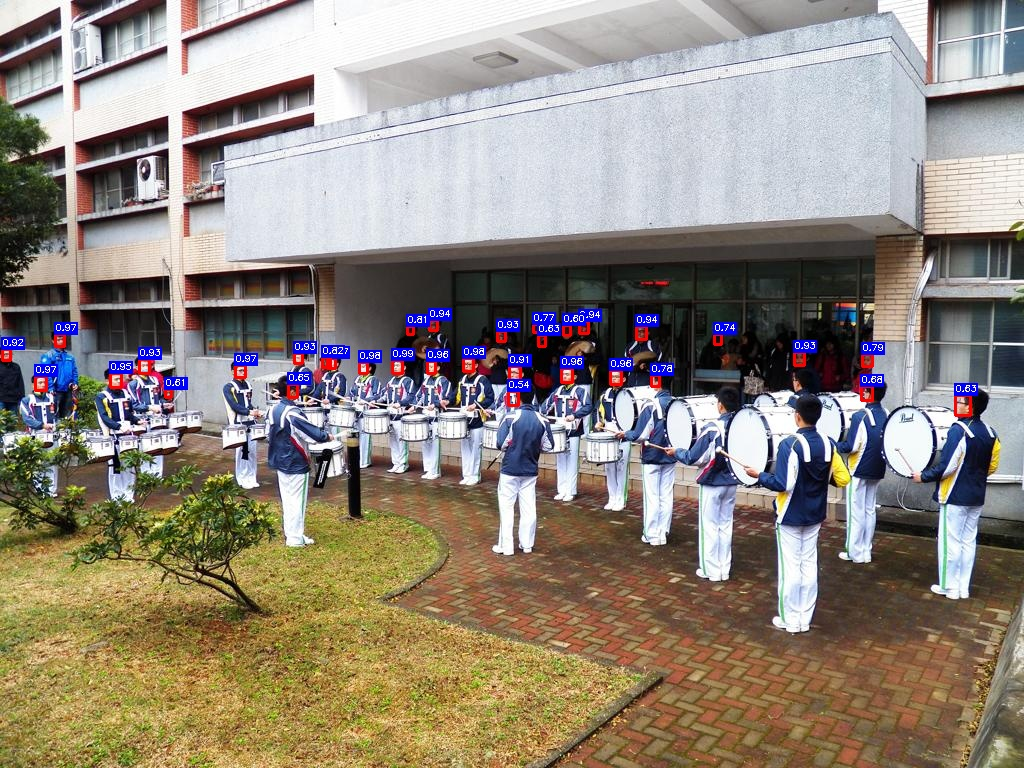
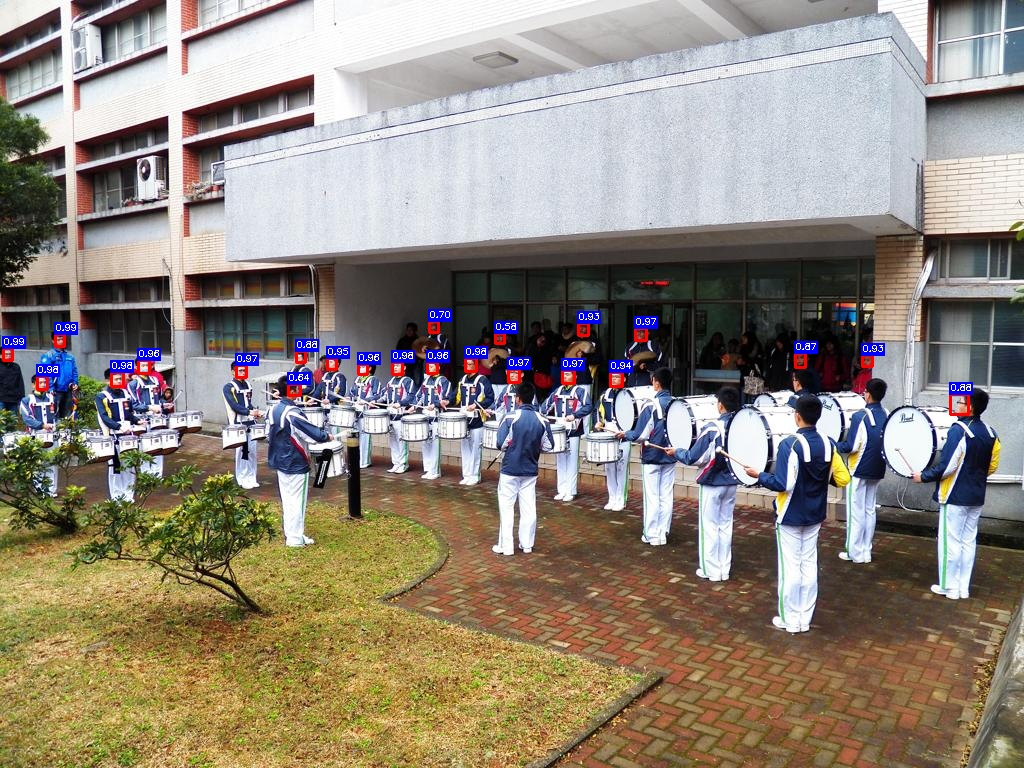
7.12精调tricks与out记录

diff --git a/models/dual_net_ssd.py b/models/dual_net_ssd.py
@@ -100,15 +100,6 @@ class SSD(nn.Module):
         self.smooth1 = nn.Conv2d(fpn_in[0], fpn_in[0], kernel_size=1, stride=1, padding=0)
 
         # =============
-        # 第二次特征点乘融合层
-        bup_in = output_channels
-        # self.bup1 = nn.Conv2d(bup_in[0], bup_in[1], kernel_size=3, stride=2, padding=1)
-        # self.bup2 = nn.Conv2d(bup_in[1], bup_in[2], kernel_size=3, stride=2, padding=1)
-        self.bup3 = nn.Conv2d(bup_in[2], bup_in[3], kernel_size=3, stride=2, padding=1)
-        self.bup4 = nn.Conv2d(bup_in[3], bup_in[4], kernel_size=3, stride=2, padding=1)
-        self.bup5 = nn.Conv2d(bup_in[4], bup_in[5], kernel_size=3, stride=2, padding=1)
-
-        # =============
         # 特征增强FEM层
         cpm_in = output_channels
         # self.cpm3_3 = nn.Conv2d(cpm_in[0], 512, kernel_size=1)
@@ -129,7 +120,7 @@ class SSD(nn.Module):
             self.softmax = nn.Softmax(dim=-1)
             self.detect = my_detection.Detection(cfg)
 
-    def init_priors(self, input_size, features_maps, cfg):
+    def init_priorbox(self, input_size, features_maps, cfg):
         priorbox = my_priorbox.PriorBox(input_size, features_maps, cfg)
         prior = Variable(priorbox.forward(), volatile=True)
         return prior
@@ -180,12 +171,6 @@ class SSD(nn.Module):
         conv4_3_x = lfpn2
         conv3_3_x = lfpn1
 
-        # conv4_3_x = F.relu(self.bup1(conv3_3_x))  * conv4_3_x
-        # conv5_3_x = F.relu(self.bup2(conv4_3_x))  * conv5_3_x
-        fc7_x = F.relu(self.bup3(conv5_3_x)) * fc7_x
-        conv6_2_x = F.relu(self.bup4(fc7_x)) * conv6_2_x
-        conv7_2_x = F.relu(self.bup5(conv6_2_x)) * conv7_2_x
-
         sources = [conv3_3_x, conv4_3_x, conv5_3_x, fc7_x, conv6_2_x, conv7_2_x]
 
         sources[0] = self.cpm3_3(sources[0])
@@ -200,10 +185,21 @@ class SSD(nn.Module):
         for (x, l, c) in zip(sources, self.loc, self.conf):
             featuremap_size.append([x.shape[2], x.shape[3]])
             loc.append(l(x).permute(0, 2, 3, 1).contiguous())
-            conf.append(c(x).permute(0, 2, 3, 1).contiguous())
+            len_conf = len(conf)
+            if self.cfg.MBOX[0] ==1 :
+                cls = self.mio_module(c(x),len_conf)
+            else:
+                mmbox = torch.chunk(c(x) , self.cfg.MBOX[0] , 1)
+                cls_0 = self.mio_module(mmbox[0], len_conf)
+                cls_1 = self.mio_module(mmbox[1], len_conf)
+                cls_2 = self.mio_module(mmbox[2], len_conf)
+                cls_3 = self.mio_module(mmbox[3], len_conf)
+                cls = torch.cat([cls_0, cls_1, cls_2, cls_3] , dim=1)
+            conf.append(cls.permute(0, 2, 3, 1).contiguous())
 
-        face_loc = torch.cat([o.view(o.size(0), -1) for o in loc], 1)
-        face_conf = torch.cat([o.view(o.size(0), -1) for o in conf], 1)
+        mbox_num = self.cfg.MBOX[0]
+        face_loc = torch.cat([o[:, :, :, :4 * mbox_num].contiguous().view(o.size(0), -1) for o in loc], 1)
+        face_conf = torch.cat([o[:, :, :, :2 * mbox_num].contiguous().view(o.size(0), -1) for o in conf], 1)
 
         if self.phase == "test":
             features_maps = featuremap_size  # 根据具体输入情况来修改cfg
@@ -237,6 +233,16 @@ class SSD(nn.Module):
         else:
             print('Sorry only .pth and .pkl files supported.')
 
+    def mio_module(self, each_mmbox, len_conf):
+        chunk = torch.chunk(each_mmbox, each_mmbox.shape[1], 1)
+        bmax = torch.max(torch.max(chunk[0], chunk[1]), chunk[2])
+        cls = (torch.cat([bmax, chunk[3]], dim=1) if len_conf == 0 else torch.cat([chunk[3], bmax], dim=1))
+        if len(chunk) == 6:
+            cls = torch.cat([cls, chunk[4], chunk[5]], dim=1)
+        elif len(chunk) == 8:
+            cls = torch.cat([cls, chunk[4], chunk[5], chunk[6], chunk[7]], dim=1)
+        return cls
+
     def _upsample_product(self, x, y):
         '''Upsample and add two feature maps.
         Args:
@@ -257,14 +263,38 @@ class SSD(nn.Module):
         return F.upsample(x, size=(H, W), mode='bilinear') * y
 
 
+class DeepHeadModule(nn.Module):
+    def __init__(self, input_channels, output_channels):
+        super(DeepHeadModule , self).__init__()
+        self._input_channels = input_channels
+        self._output_channels = output_channels
+        self._mid_channels = min(self._input_channels, 256)
+        #print(self._mid_channels)
+        self.conv1 = nn.Conv2d( self._input_channels, self._mid_channels, kernel_size=3, dilation=1, stride=1, padding=1)
+        self.conv2 = nn.Conv2d( self._mid_channels, self._mid_channels, kernel_size=3, dilation=1, stride=1, padding=1)
+        self.conv3 = nn.Conv2d( self._mid_channels, self._mid_channels, kernel_size=3, dilation=1, stride=1, padding=1)
+        self.conv4 = nn.Conv2d( self._mid_channels, self._output_channels, kernel_size=1, dilation=1, stride=1, padding=0)
+    def forward(self, x):
+        return self.conv4(F.relu(self.conv3(F.relu(self.conv2(F.relu(self.conv1(x), inplace=True)), inplace=True)), inplace=True))
+
+
 def multibox(output_channels, mbox_cfg, num_classes):
     loc_layers = []
     conf_layers = []
     for k, v in enumerate(output_channels):
         input_channels = 512
-        loc_layers += [nn.Conv2d(input_channels, mbox_cfg[k] * 4, kernel_size=3, padding=1)]
-        conf_layers += [nn.Conv2d(input_channels, mbox_cfg[k] * num_classes, kernel_size=3, padding=1)]
-    return loc_layers, conf_layers
+        if k == 0:
+            loc_output = 4
+            conf_output = 2
+        elif k == 1:
+            loc_output = 8
+            conf_output = 4
+        else:
+            loc_output = 12
+            conf_output = 6
+        loc_layers += [DeepHeadModule(input_channels, mbox_cfg[k] * loc_output)]
+        conf_layers += [DeepHeadModule(input_channels, mbox_cfg[k] * (2 + conf_output))]
+    return (loc_layers, conf_layers)
 
 
 def build_net_ssd(phase, cfg, num_classes=2):

diff --git a/train.py b/train.py
@@ -15,6 +15,7 @@ import torch.optim as optim
 from torch.autograd import Variable
 from torch.utils.data import DataLoader
 from torch.optim.lr_scheduler import StepLR  # 学习率衰减
+from tensorboardX import SummaryWriter
 import numpy as np
 import warnings
 warnings.filterwarnings("ignore")
@@ -75,7 +76,11 @@ def train(args):
     if args.mode == 'resume':
         print('[INFO] Load model from {}...'.format(args.resume))
         # torch_utils.load_net(args.resume, net)
-        net.load_weights(args.resume)
+        try:
+            net.load_weights(args.resume)
+        except Exception as e:
+            net.load_state_dict(torch.load(args.resume))
+
     else:
         print('[INFO] Initializing weights...')
         # net.apply(net.weights_init)
@@ -85,6 +90,9 @@ def train(args):
     scheduler = StepLR(optimizer, step_size=10000, gamma=0.1)
     # criterion = GeneralLoss(cfg)
     criterion = FocalLoss(cfg)
+
+    # 存放训练log的writer对象
+    writer = SummaryWriter('./log')
 
     # 训练
     print("======开始训练======")
@@ -116,7 +124,8 @@ def train(args):
             loss = criterion(out, targets)
             loss.backward()
 
-            torch.nn.utils.clip_grad_norm(net.parameters(), True)  # 梯度裁剪
+            # 梯度裁剪
+            torch.nn.utils.clip_grad_norm(net.parameters(), True)
             optimizer.step()
 
             # 新增metrics输出
@@ -127,20 +136,24 @@ def train(args):
             losses += loss.data.item()  # 注：不能直接losses += loss，会随着epoches循环爆gpu的显存
 
             # 每训练10个batches后打印日志
-            ## loss开始变得不正常时，保存模型
             if iteration % 10 == 0:
                 # 计算每个batch的平均loss
                 mean_loss = losses / (iteration + 1)
+
+                # 添加loss日志（用于tensorboard可视化）
+                writer.add_scalar('Loss', mean_loss, global_step=iteration)
+
                 print('Timer: %.4f' % (time.time() - start_time))
                 print('Epoch:' + repr(epoch) + ' || iter:' +
                       repr(iteration) + ' || Loss:%.4f' % (mean_loss))
                 # print('->> cls loss:s1_{:.4f},s2_{:.4f} || loc loss:s1_{:.4f},s2_{:.4f}'.format(
                       # loss_cls_s1.data[0], loss_cls_s2.data[0], loss_loc_s1.data[0], loss_loc_s2.data[0]))
                 print('->>lr:{}'.format(optimizer.param_groups[0]['lr']))
+                # 保存出现nan之前的最优loss权重，并保存(只保存1个)
                 if mean_loss < min_loss:
                     min_loss = mean_loss
                     print("min_loss:{}".format(min_loss))
-                    torch.save(net.state_dict(), save_path.format(11111))  # 出现nan之前的最优loss的model标签，并保存(只保存1个)
+                    torch.save(net.state_dict(), save_path.format(11111))
                 
                 # 权重、偏置、特征信息
                 # wb_parm, names = weights_bias_parm(net)
@@ -243,5 +256,5 @@ if __name__ == '__main__':
 
     argments = parser.parse_args(sys.argv[1:])  # 新增的resume参数，指定net需要加载的权重参数
     # 用来每个epoch走完之后，val_loss的比较以保存最佳model
-    min_loss = 15
+    min_loss = 10
     train(argments)

diff --git a/config.py b/config.py
@@ -15,8 +15,7 @@ class Config(object):
     VAL_ROOT = '/home/dataset/face_recognize/face_detect/WIDER_val/images'
     FACE_GEN_TRAIN_FILE = './data/train.txt'
     FACE_GEN_VAL_FILE = './data/val.txt'
-    # 类别数与loss合并参数
-    ALPHA = 1.0
+    # 类别数
     NUM_CLASSES = 2
     # prior_box参数
     MBOX = [1, 1, 1, 1, 1, 1]
@@ -26,7 +25,7 @@ class Config(object):
     INPUT_SIZE = [640, 640]
     STEPS = [4, 8, 16, 32, 64, 128]
     ASPECT_RATIO = [1.0]  # [1.0, 2.0,...]的形式
-    CLIP = False
+    CLIP = True
     VARIANCE = [0.1, 0.1, 0.2, 0.2]
     # 数据增广参数
     APPLY_DISTORT = True
@@ -49,25 +48,25 @@ class Config(object):
     brightness_prob = 0.5
     brightness_delta = 0.125
     # Generalloss 挖掘采样参数
-    FACE_OVERLAP_THRESH = [0.35]  # 0.35
+    FACE_OVERLAP_THRESH = [0.4]  # 0.35
     NEG_POS_RATIOS = 3
     # Focalloss 挖掘采样参数
     ALPHA = 0.25
     GAMMA = 2
     # Detection阈值
-    NMS_THRESH = 0.3
+    NMS_THRESH = 0.1  # 0.3
     NMS_TOP_K = 5000
     TOP_K = 750
     CONF_THRESH = 0.05
     # Final confidence threshold
-    THRESHOLD = 0.4  # 0.4
+    THRESHOLD = 0.55  # 0.4
     # 训练参数
-    EPOCHES = 5
-    BATCH_SIZE = 4
+    EPOCHES = 2
+    BATCH_SIZE = 2
     NUM_WORKERS = 4
     # 模型保存目录
     MODEL_DIR = './trained_weights'
-    RESUME = './trained_weights/model.11111.pth'
+    RESUME = './trained_weights/focalloss_best_1.0_resnet_7.12.pth'
     # 需要预测的图片数据地址
     IMG_PATH = './data/img'
     # 预测结果保存目录

diff --git a/demo.py b/demo.py
@@ -20,6 +20,7 @@ from config import cur_config as cfg
 from models.my_dual_net import DualShot
 from models.dual_net_resnet import build_net_resnet
 from models.dual_net_vgg import build_net_vgg
+from models.dual_net_ssd import build_net_ssd
 from utils.augmentation import to_chw_bgr  # channel first and RGB2GBR
 
 torch.cuda.set_device(1)
@@ -90,7 +91,8 @@ def main():
     print("====初始化网络=====")
     # net = DualShot('test', cfg, cfg.NUM_CLASSES)
     # net = build_net_resnet('test', cfg.NUM_CLASSES, 'resnet50')
-    net = build_net_vgg('test', cfg.NUM_CLASSES)
+    # net = build_net_vgg('test', cfg.NUM_CLASSES)
+    net = build_net_ssd('test', cfg, cfg.NUM_CLASSES)
     net.load_weights(cfg.RESUME)
     net.eval()
     net.cuda()
@@ -103,7 +105,10 @@ def main():
     # 全局设置不进行梯度更新，避免爆GPU显存
     with torch.no_grad():
         for path in img_list:
-            detect(net, path, cfg.THRESHOLD)
+            try:
+                detect(net, path, cfg.THRESHOLD)
+            except Exception as e:
+                continue
 
 
 if __name__ == '__main__':

diff --git a/layers/my_priorbox.py b/layers/my_priorbox.py
@@ -47,8 +47,11 @@ class PriorBox(object):
 
                 s_kw = self.min_sizes[k] / self.imw
                 s_kh = self.min_sizes[k] / self.imh
+
+                # mean += [cy, cx, s_kh, s_kw]
+
                 for ar in self.aspect_ratio:
-                    mean += [cy, cx, s_kh/math.sqrt(ar), s_kw*math.sqrt(ar)]
+                    mean += [cy, cx, s_kh*math.sqrt(ar), s_kw/math.sqrt(ar)]
 
         output = torch.Tensor(mean).view(-1, 4)
         if self.clip:
